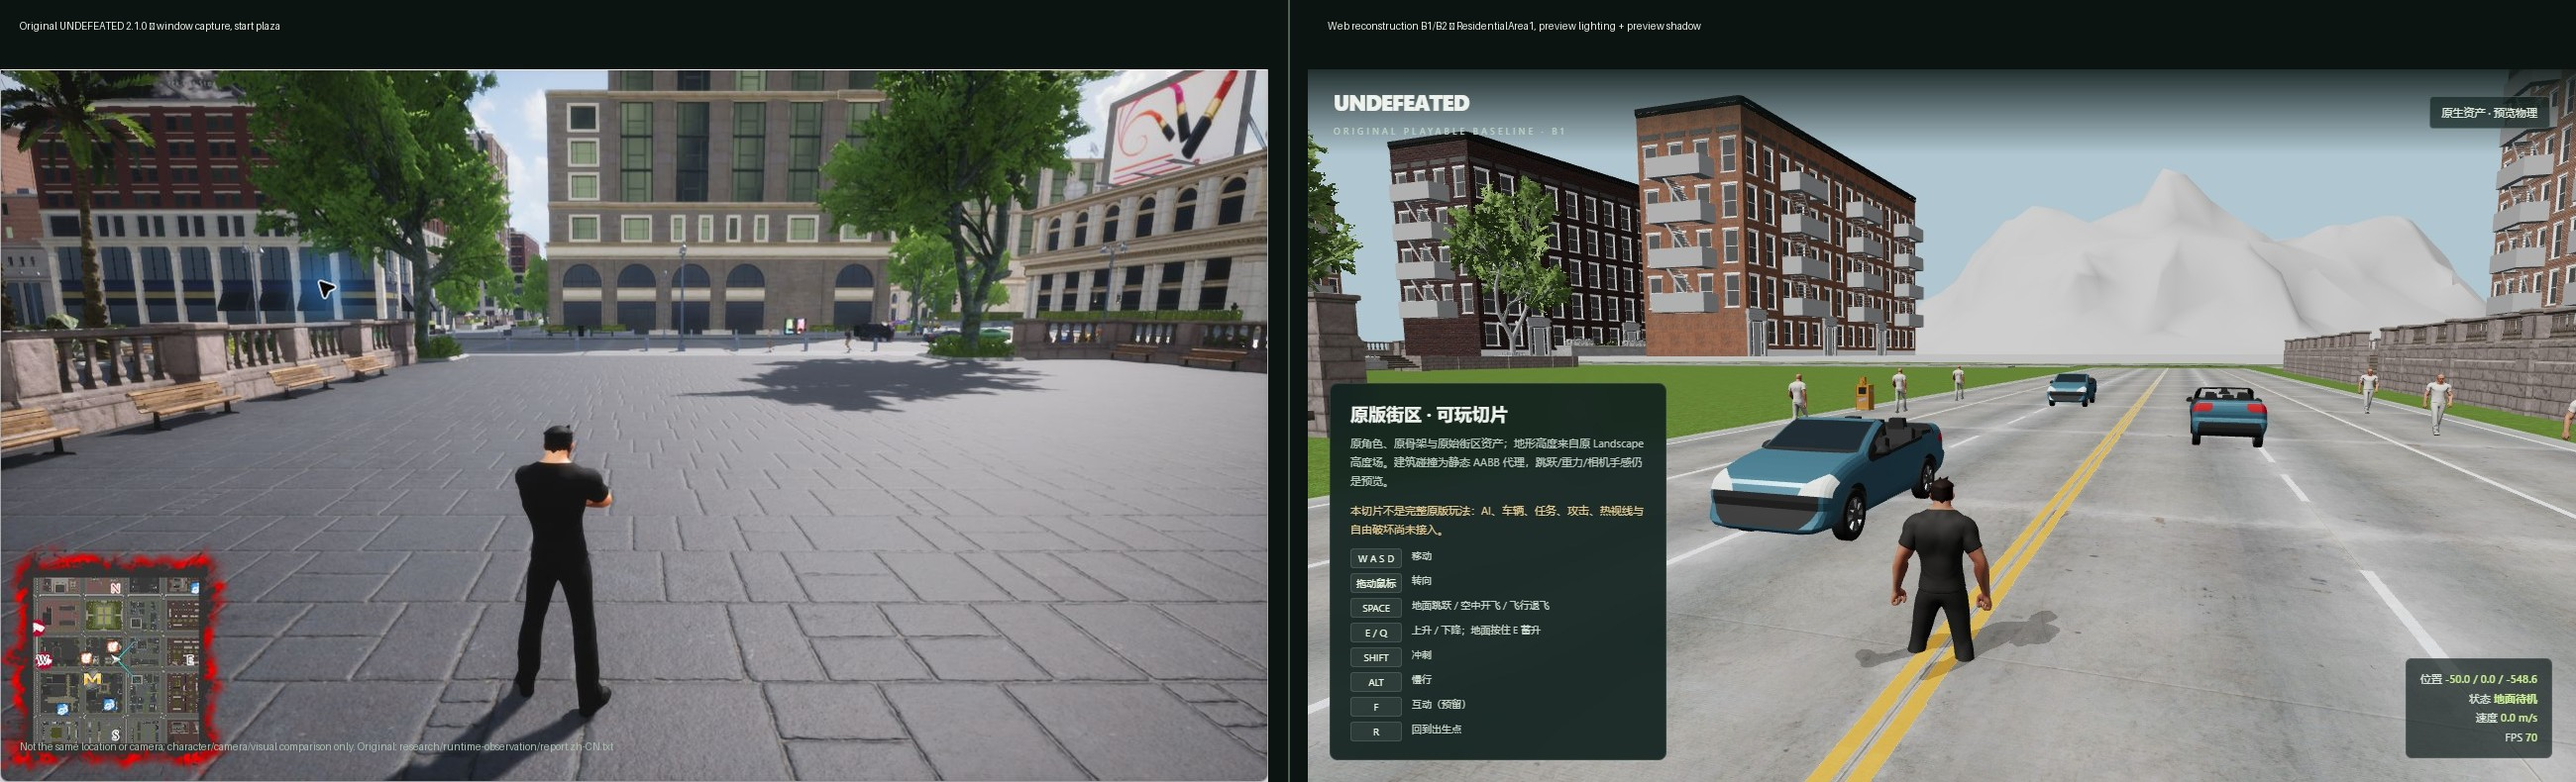
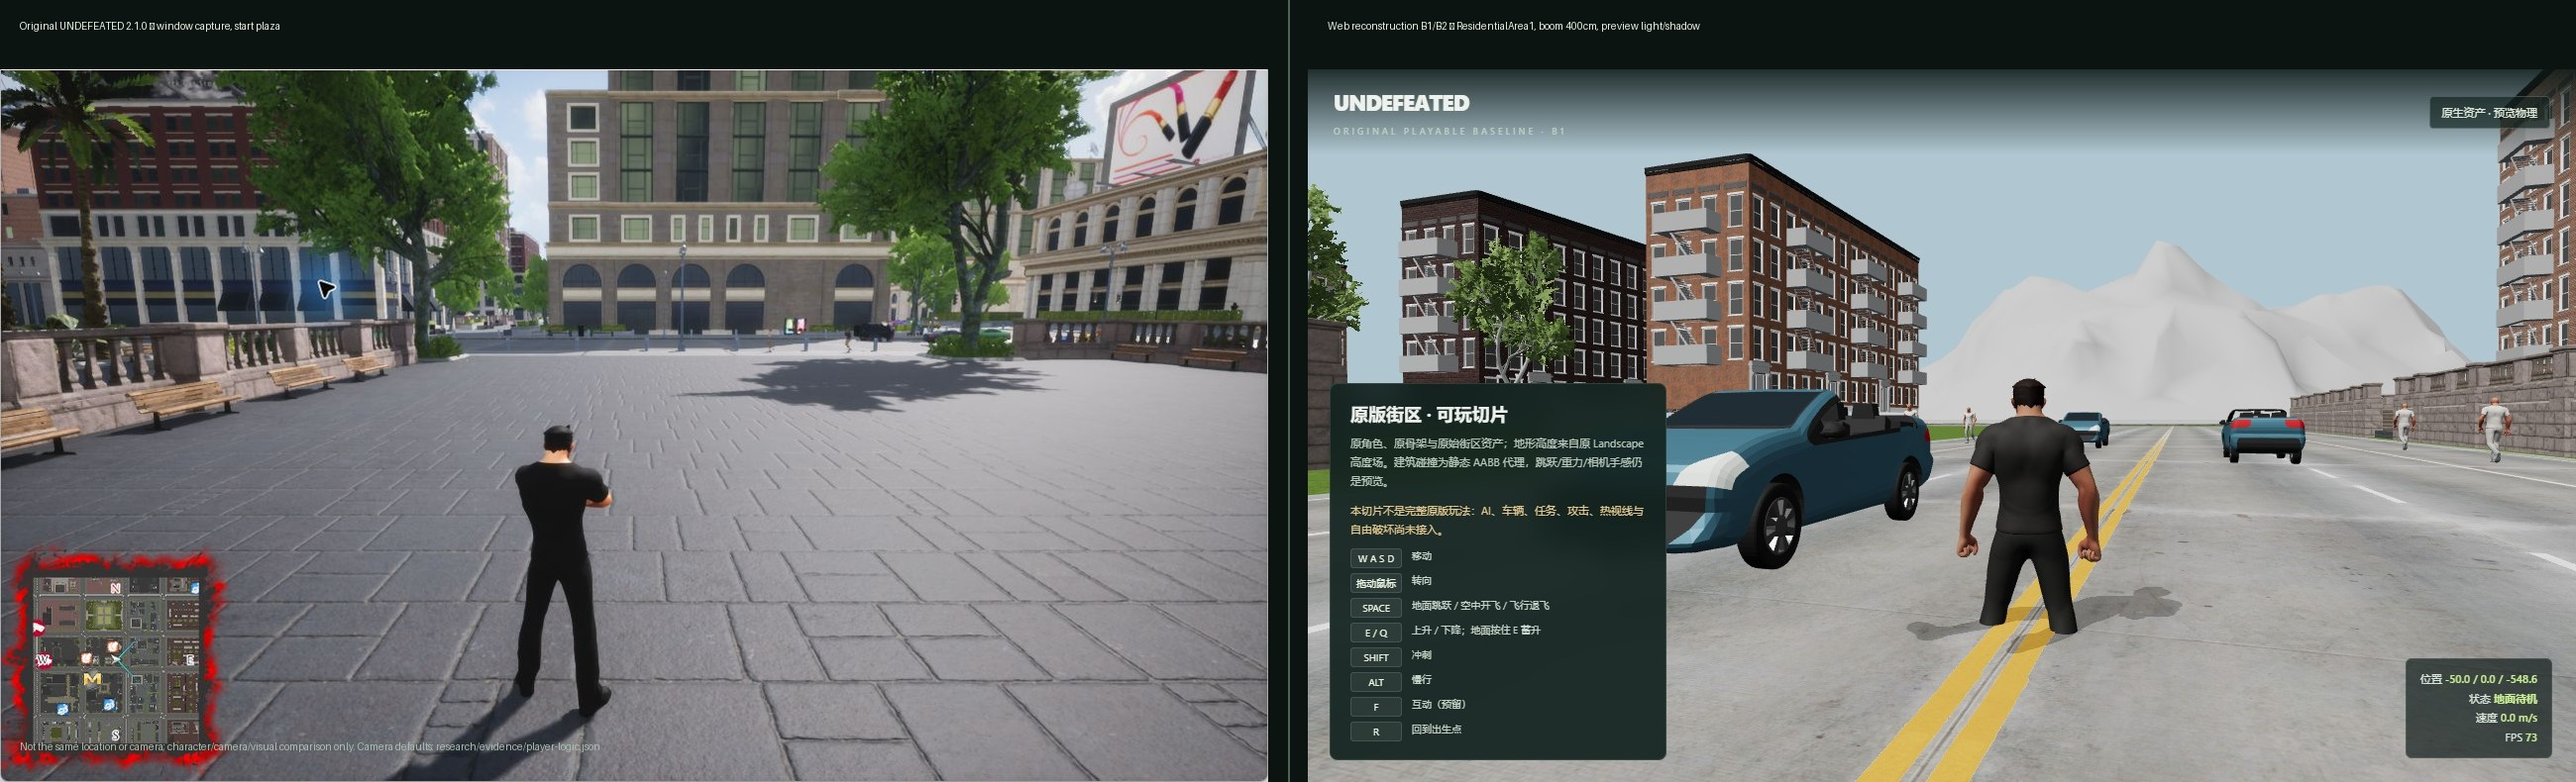
feat: calibrate third-person camera to original PlayerBP CameraBoom
Use the decoded CameraBoom defaults: TargetArmLength=400 cm, SocketOffset=(0,50,90) cm, RelativeLocation Z=70 cm (research/evidence/player-logic.json). Replace the previous ad-hoc 5.5 m/8 m follow with a 4.0 m spring-arm-like offset, default pitch 0.02, AABB pull-in from the boom origin, and a look target along the view direction. Regenerate play-camera.jpg and the original-vs-Web comparison; update the camera row and remaining lag/spring/collision caveats.

diff --git a/src/play-original.ts b/src/play-original.ts
@@ -43,6 +43,10 @@ const el = <T extends HTMLElement = HTMLElement>(id: string) => document.getElem
 const canvas = el<HTMLCanvasElement>('world');
 const viewer = new OriginalWorld(canvas);
 const input = new Input(canvas);
+// Original PlayerBP CameraBoom_GEN_VARIABLE: TargetArmLength=400 cm,
+// SocketOffset=(0,50,90) cm, boom RelativeLocation Z=70 cm.
+const CAMERA = { armLength: 4.0, boomHeight: 0.7, socketRight: 0.5, socketUp: 0.9 };
+input.pitch = 0.02;
 const paused = el('paused');
 const requestedDistrict = new URLSearchParams(location.search).get('district') ?? 'ResidentialArea1';
 const startupMode = new URLSearchParams(location.search).get('startup') === '1';
@@ -188,22 +192,26 @@ try {
   canvas.dataset.failures = String(viewer.failuresList.length);
   canvas.dataset.textureFailures = String(viewer.materials.textureFailures.size);
 
-  const target = new Vector3();
+  const base = new Vector3();
+  const forward = new Vector3();
+  const right = new Vector3();
+  const look = new Vector3();
   const updateCamera = () => {
     if (!player) return;
-    target.set(player.position[0], player.position[1] + 1.35, player.position[2]);
-    const distance = player.flying ? 8 : 5.5;
-    const pitch = input.pitch;
-    const offset = new Vector3(
-      -Math.sin(input.yaw) * Math.cos(pitch) * distance,
-      0.8 + Math.sin(pitch) * distance,
-      -Math.cos(input.yaw) * Math.cos(pitch) * distance,
-    );
-    const nearby = collision.spatial.nearby(target.x, target.z, distance + 2);
-    const hit = firstHit(target.asArray() as Vec3, offset.asArray() as Vec3, nearby, [0.2, 0.2, 0.2]);
+    const yaw = input.yaw, pitch = input.pitch;
+    right.set(Math.cos(yaw), 0, -Math.sin(yaw));
+    base.set(player.position[0], player.position[1] + CAMERA.boomHeight, player.position[2]);
+    base.addInPlace(right.scale(CAMERA.socketRight));
+    base.y += CAMERA.socketUp;
+    forward.set(Math.sin(yaw) * Math.cos(pitch), -Math.sin(pitch), Math.cos(yaw) * Math.cos(pitch));
+    const offset = forward.scale(-CAMERA.armLength);
+    const nearby = collision.spatial.nearby(base.x, base.z, CAMERA.armLength + 2);
+    const hit = firstHit(base.asArray() as Vec3, offset.asArray() as Vec3, nearby, [0.2, 0.2, 0.2]);
     const safe = hit ? Math.max(0.08, hit.time - 0.02) : 1;
-    viewer.camera.position.copyFrom(target.add(offset.scale(safe)));
-    viewer.camera.setTarget(target.add(new Vector3(0, 1, 0)));
+    viewer.camera.position.copyFrom(base.add(offset.scale(safe)));
+    look.copyFrom(base).addInPlace(forward.scale(20));
+    look.y += 0.25;
+    viewer.camera.setTarget(look);
   };
   updateCamera();
 

diff --git a/docs/playable-baseline.md b/docs/playable-baseline.md
@@ -9,7 +9,8 @@
 - 世界：`MainLevel + ResidentialArea1` 静态装配，3,782 个源对象组件、144 块地形；资源/纹理失败 0。
 - 角色：`/assets/character/hero.gltf`，原身体/头发/墨镜三套网格与骨架，18 段原动画；保留原骨架与比例。
 - 地面：144 块原 Landscape 高度场逐点采样（`TerrainHeightfield`），不是旧的单平面地面。
-- 碰撞：从恢复后的静态对象 TRS 与 asset bounds 生成 1,432 个 AABB 代理（2,171 个对象中跳过 731 个过小、8 个过大）；这是可玩性代理，不是原 cooked PhysX。相机偏移会对附近 AABB 做收缩，避免穿墙。预览车辆/报刊箱的 `solidBoxes` 每帧加入玩家动态碰撞；预览市民仍可穿过。
+- 碰撞：从恢复后的静态对象 TRS 与 asset bounds 生成 1,432 个 AABB 代理（2,171 个对象中跳过 731 个过小、8 个过大）；这是可玩性代理，不是原 cooked PhysX。相机偏移会对附近 AABB 做收缩，避免穿墙。所有存活预览 actor（含市民、车辆、报刊箱）的 `solidBoxes` 每帧加入玩家动态碰撞。
+- 相机：第三人称按原 `PlayerBP` `CameraBoom` 的 `TargetArmLength=400 cm`、`SocketOffset=(0,50,90) cm`、`RelativeLocation Z=70 cm` 校准；相机 lag/弹簧/碰撞控制仍是近似。
 - 输入：Space 地面跳跃 / 空中开飞 / 飞行退飞；E/Q 升降；地面按住 E 约 1 秒自动开飞；Shift 冲刺；Alt 慢行；F 预留互动；R 为调试回出生点。
 - 动画：`Hero_Idle`、`A_ThirdPersonRun`、`Hero_IdleFlying`、`Hero_FlyFastSprint` 随状态切换；B1 实测前三条。
 - 出生点：旧原型街区局部坐标 `(50, 1.37)` 加上 city manifest `originUE [-10000,-55000,0]` cm，得到恢复世界 `(-50.0, -548.63)`，位于 ResidentialArea1 的实际公寓街区；仍不是原 `PlayerStart`。MainLevel `BP_RespawnAndSpawnPoint` 的 x/z 作为备用。
@@ -77,7 +78,7 @@ B2 探针 [probe-play-b2.js](../scripts/probe-play-b2.js) / [probe-play-b2-hit.j
 - `?population=original` 是检查模式：12 个最近原始 spawn 点会聚集在玩家附近，路线是最近邻预览；原版 spawner 生成节奏/数量/导航未恢复，所以不能当默认人口。
 - 预览人口只加载于 ResidentialArea1；DownTown/Park/TitleMenuLevel 没有市民、车辆、AI、任务或可攻击目标。
 - 玩家动态碰撞已覆盖预览市民/车辆/报刊箱；原版 actor 胶囊形状与非统一骨骼碰撞未恢复。
-- 跳跃冲量、重力曲线来自旧原型预览值；建筑/道具碰撞是 AABB 代理，不是原 PhysX；相机只做 AABB 收缩。
+- 跳跃冲量、重力曲线来自旧原型预览值；建筑/道具碰撞是 AABB 代理，不是原 PhysX；相机 boom 已按原参数校准，但 lag/弹簧/碰撞后处理仍是近似。
 - 地图中烘焙的参考姿态市民被隐藏，预览市民不是原地图 AI；角色阴影、IK、蒙太奇/通知、完整 HeroAnimBP 状态机未实现。
 - 尚未与原程序做同机位/同输入对照。
 

diff --git a/docs/runtime-comparison.md b/docs/runtime-comparison.md
@@ -7,7 +7,7 @@
 ## 来源
 
 - 原程序：`research/runtime-observation/original-start-plaza.png`，1282×752 窗口截图，裁掉 30 px 标题栏后缩放到 1280×720。原程序版本 2.1.0；启动/进入城市及存档校验见 [report.zh-CN.txt](../research/runtime-observation/report.zh-CN.txt)。
-- Web：`research/screenshots/play-shadow.jpg`，1280×720，`?view=play`，ResidentialArea1 车道，预览照明 + 预览角色阴影；位置 `(-50.0, 0.0, -548.6)`。
+- Web：`research/screenshots/play-camera.jpg`，1280×720，`?view=play`，ResidentialArea1 车道，预览照明 + 预览角色阴影；位置 `(-50.0, 0.0, -548.6)`。相机按原 `PlayerBP` 的 `CameraBoom` 默认值校准：`TargetArmLength=400 cm`、`SocketOffset=(0,50,90) cm`、RelativeLocation Z=70 cm（`research/evidence/player-logic.json`）。
 - 两张图不是同一地点、不是同一相机参数；对照只用于角色外观/相机/光照/UI 的初步差异记录。
 
 ## 观察
@@ -16,7 +16,7 @@
 |---|---|---|
 | 角色外观 | 黑色短袖/长裤，体型、发型轮廓与当前 Web 角色一致 | 同一原 `hero.gltf`，黑色服装与比例基本一致 |
 | 角色阴影 | 角色在铺装上有清晰动态阴影 | 已加入预览角色阴影（跟随预览太阳方向）；级联/软硬/接缝与原版不同 |
-| 相机 | 第三人称，角色约占画面高度 1/3，距离更近、略高 | 第三人称，5.5 m 跟随；角色比例接近但取景更远/更偏 |
+| 相机 | 第三人称，角色约占画面高度 1/3，距离更近、略高 | 已按原 `CameraBoom` 400 cm/SocketOffset(0,50,90)/boom Z70 cm 校准；取景比例接近，但相机 lag/碰撞和控制曲线仍不同 |
 | 光照/雾 | 原版光照、树影、环境雾与高光 | Babylon 预览半球/方向光；无原雾/后处理 |
 | 世界 | 起点广场：长椅、树、铺装、成排建筑立面 | ResidentialArea1 街道：砖砌公寓、车道、预览行人和车辆 |
 | 远景 | 城市立面/天空，无明显白色山体 | 白色未恢复材质的背景山体非常显眼 |
@@ -26,9 +26,9 @@
 
 这轮确认了“原角色确实回到原街区、比例/服装方向基本一致”，并补了预览角色阴影，但仍暴露高优先级视觉缺口：
 
-1. 相机取景比原版更远/更低，需要做相机参数对照；
+1. 相机已按原 `CameraBoom` 校准，但相机 lag/弹簧/碰撞后的控制曲线仍需对照；
 2. 背景山体材质仍为白色，原版雾/光照也没有；
 3. 角色阴影只是预览，不是原版阴影级联/后处理；
 4. 原版起点广场位置尚未在 Web 场景中定位，不能把 ResidentialArea1 街道当同机位。
 
-下一步优先做相机对照与背景山体/雾，再继续寻找原版起点广场/同机位；这些改动不会冒充完整原版渲染等价。
+下一步优先处理背景山体/雾和相机 lag，再继续寻找原版起点广场/同机位；这些改动不会冒充完整原版渲染等价。
